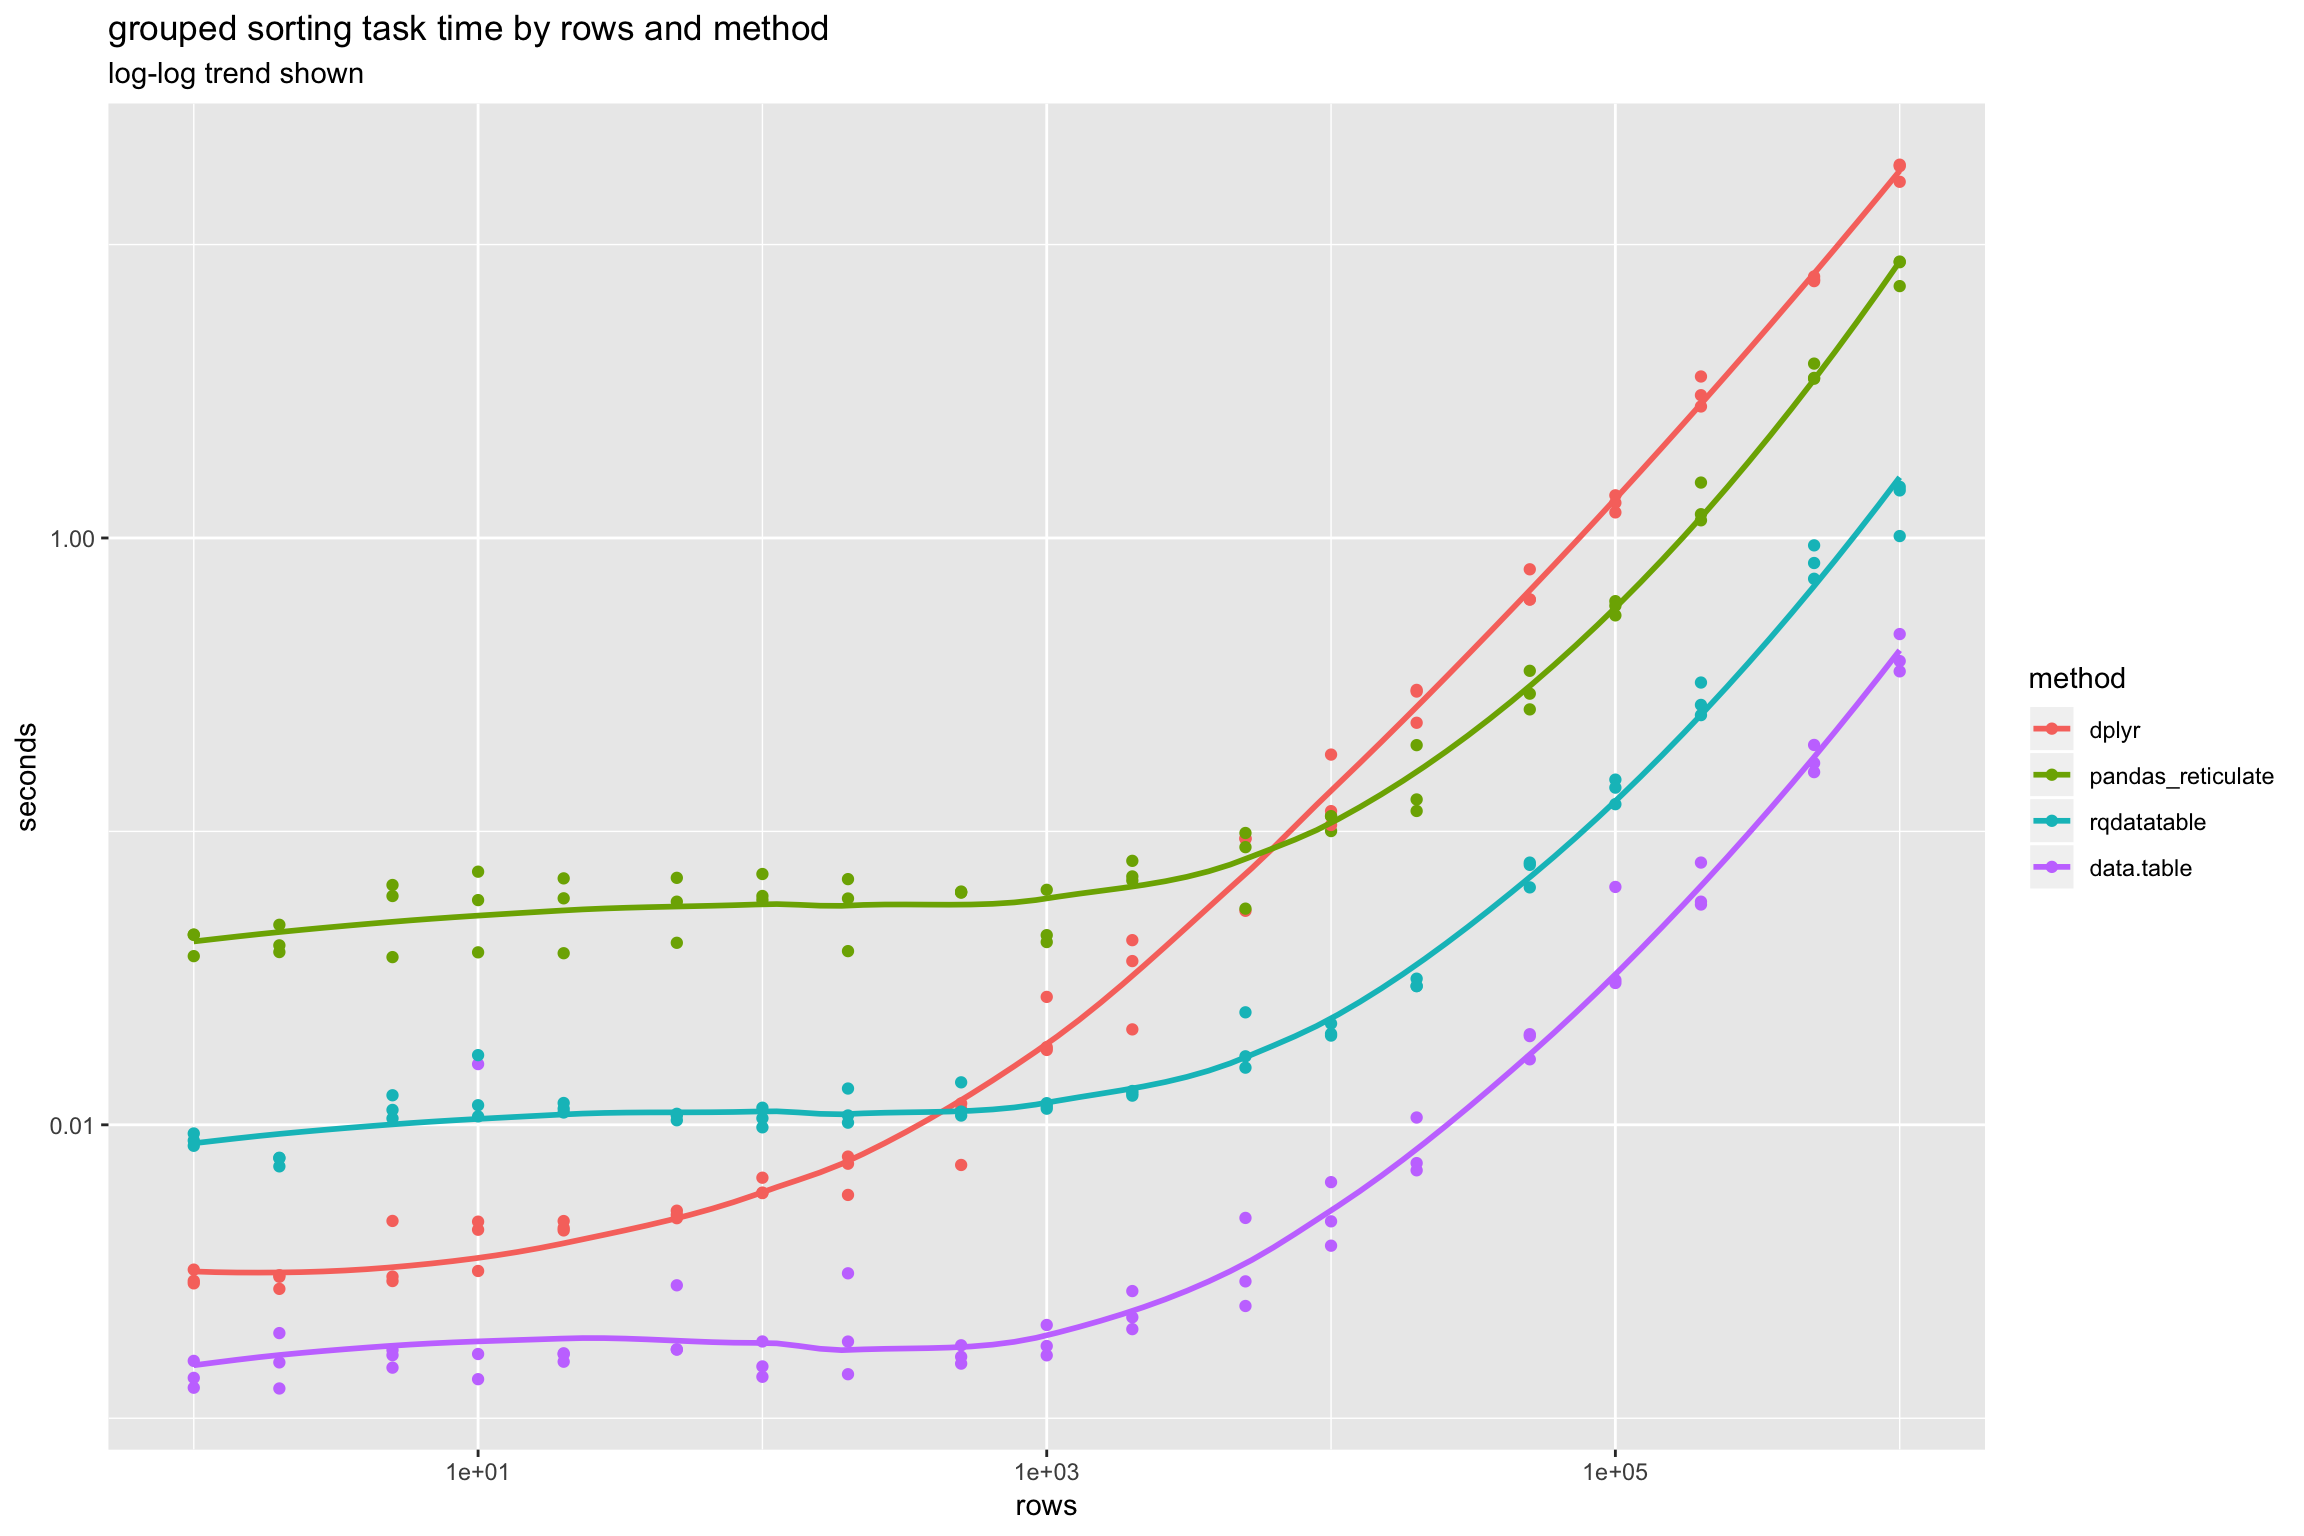
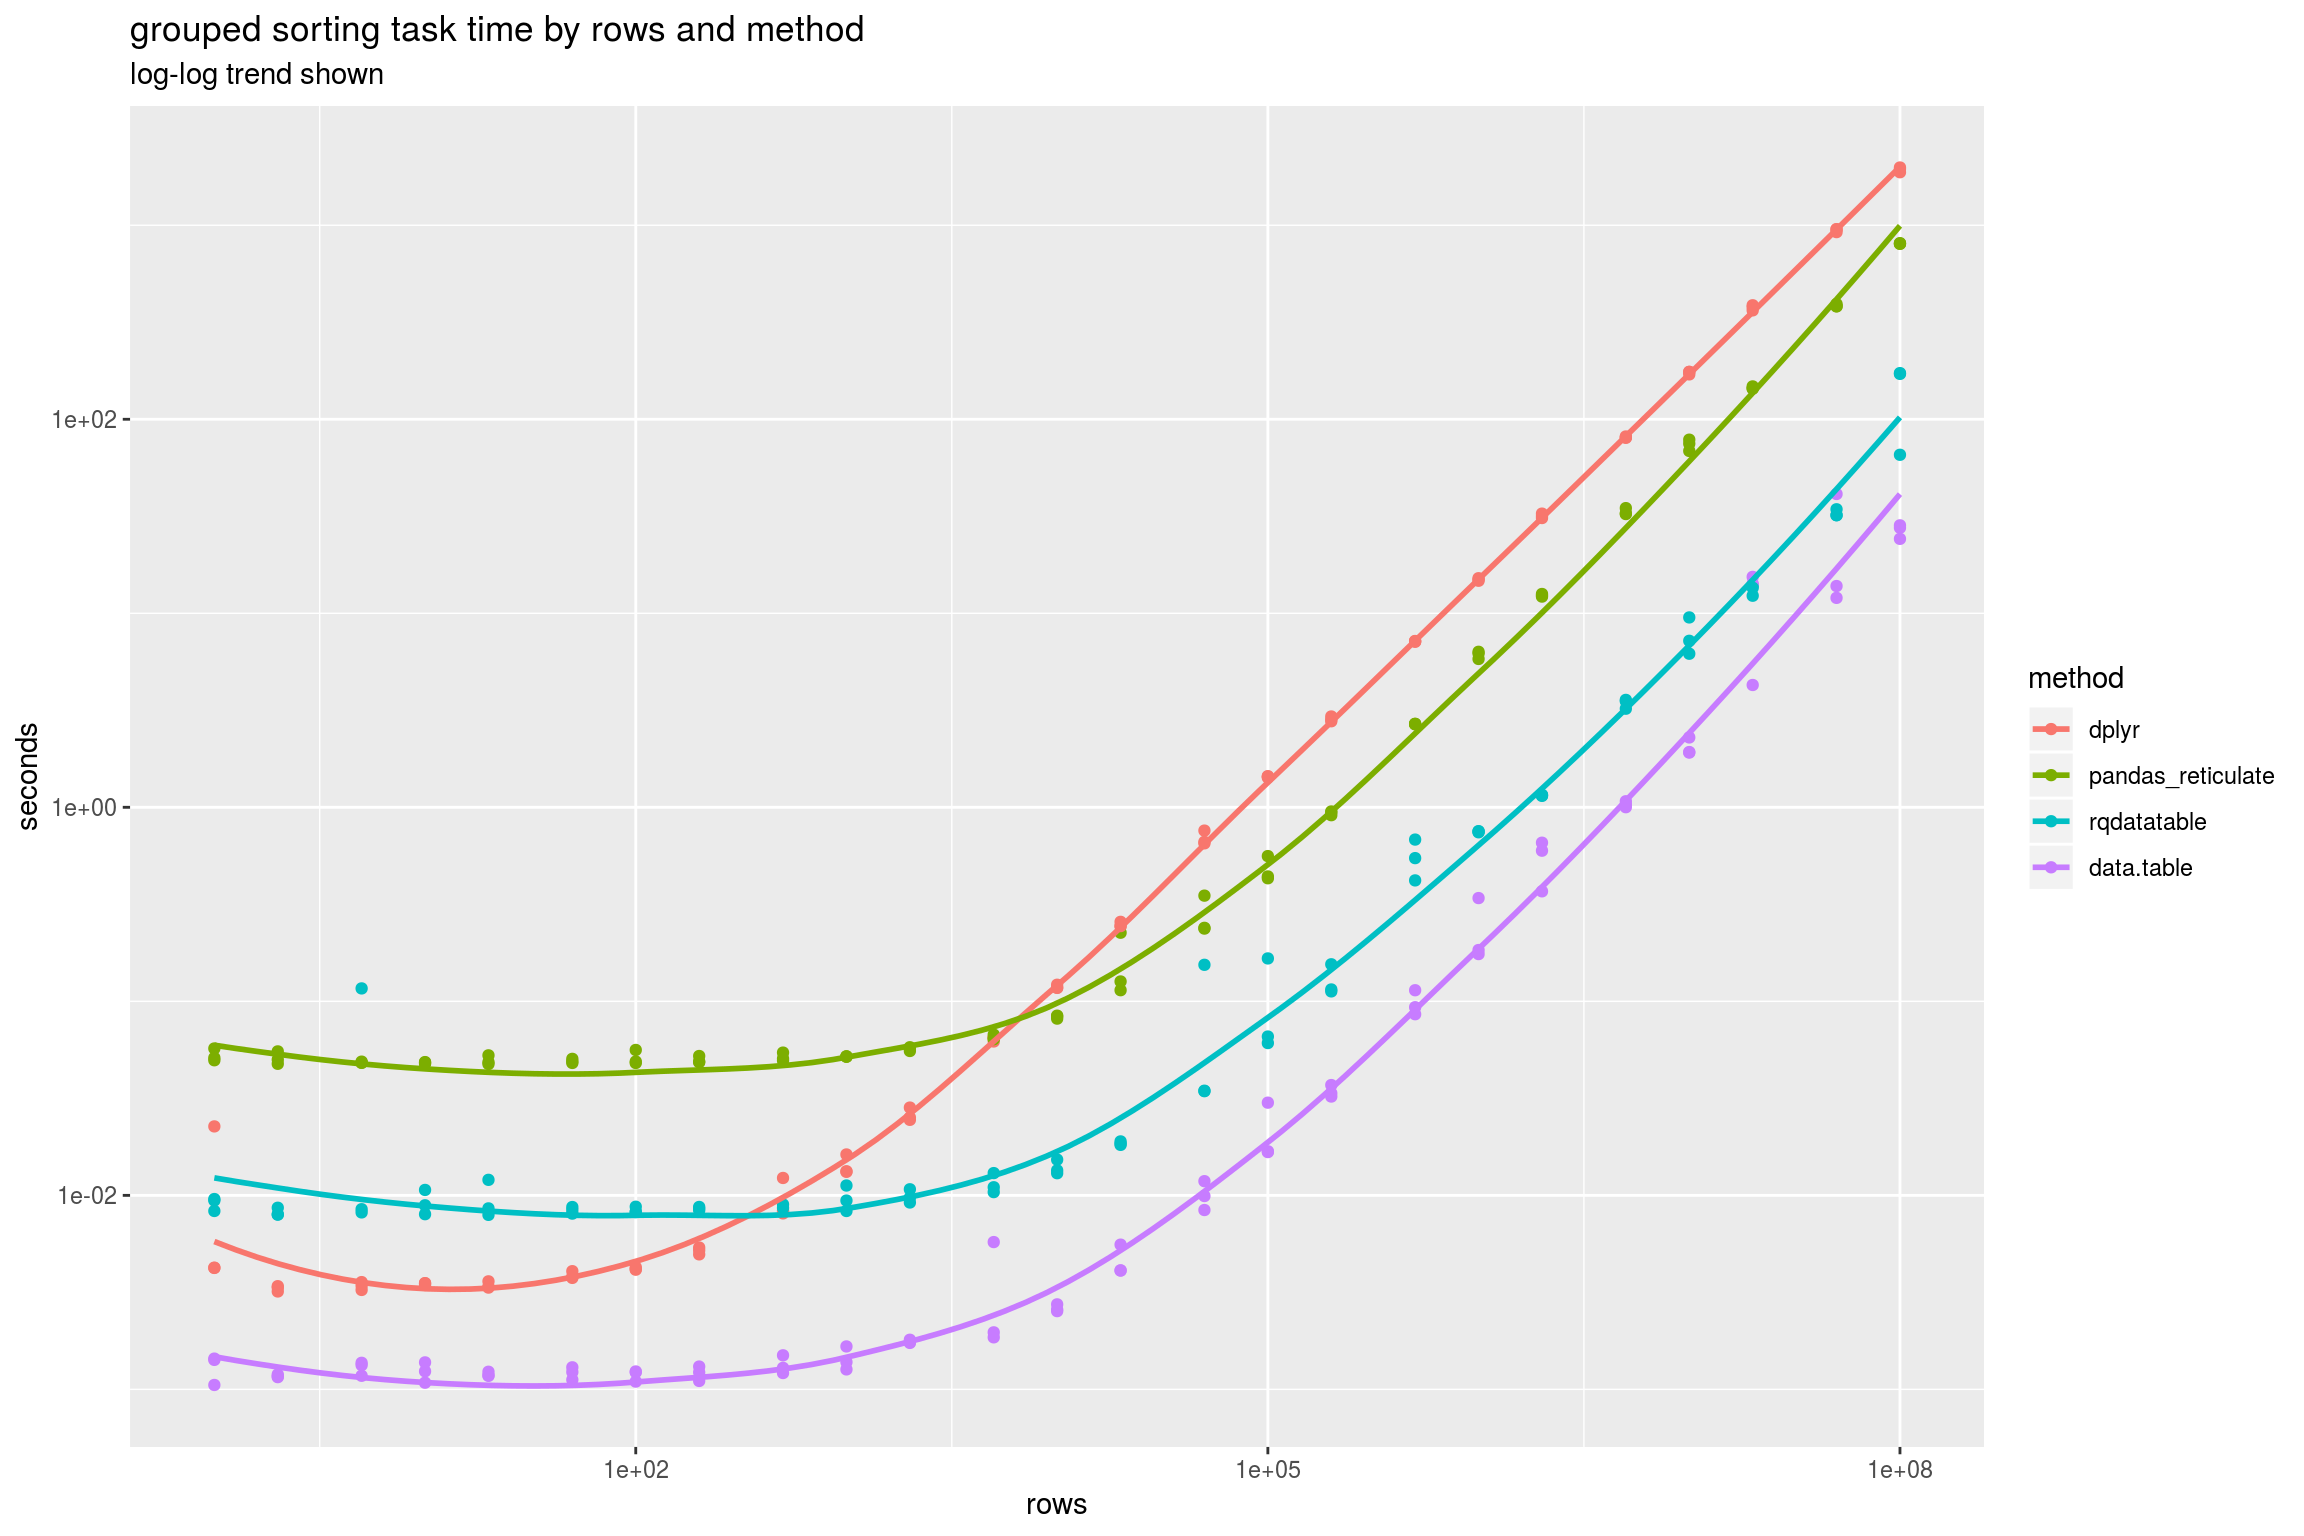
larger run

diff --git a/extras/GroupedRankFilter2.md b/extras/GroupedRankFilter2.md
@@ -1,12 +1,12 @@
 Grouped Rank Filter
 ================
 
-Late 2014 Mac Mini 2.8 GHz Intel Core i5, 8 GB 1600 MHz DDR3 RAM.
+Amazon EC2 `r4.8xlarge` (244 GiB RAM) run (8-12-2018, 64-bit Ubuntu Server 16.04 LTS (HVM), SSD Volume Type - ami-ba602bc2, R 3.4.4 all packages current).
 
 ``` r
 # https://cran.r-project.org/web/packages/reticulate/vignettes/r_markdown.html
 library("reticulate")
-use_python("/Users/johnmount/anaconda3/bin/python3")
+use_python("/home/ruser/miniconda3/bin/python3")
 pandas_handle <- reticulate::import("pandas") # don't use as https://github.com/rstudio/reticulate/issues/319
 
 pandas_fn <- py_run_string("
@@ -35,8 +35,6 @@ library("WVPlots")
 library("cdata")
 library("dplyr")
 ```
-
-    ## Warning: package 'dplyr' was built under R version 3.5.1
 
     ## 
     ## Attaching package: 'dplyr'
@@ -87,7 +85,7 @@ my_check <- function(values) {
 ```
 
 ``` r
-pow <- 6
+pow <- 8
 rds_name <- "GroupedRankFilter2_runs.RDS"
 if(!file.exists(rds_name)) {
   szs <- expand.grid(a = c(1,2,5), b = 10^{0:pow}) 
@@ -171,27 +169,33 @@ means <- timings %.>%
 knitr::kable(means)
 ```
 
-|   rows|  data.table|       dplyr|  pandas\_reticulate|  rqdatatable|       ratio|
-|------:|-----------:|-----------:|-------------------:|------------:|-----------:|
-|  1e+00|   0.0014039|   0.0030103|           0.0421621|    0.0088890|   2.1442705|
-|  2e+00|   0.0015879|   0.0029556|           0.0425789|    0.0075464|   1.8613086|
-|  5e+00|   0.0016117|   0.0035594|           0.0543929|    0.0114550|   2.2085096|
-|  1e+01|   0.0063730|   0.0040811|           0.0566445|    0.0132074|   0.6403778|
-|  2e+01|   0.0016251|   0.0045056|           0.0555863|    0.0114108|   2.7725583|
-|  5e+01|   0.0020897|   0.0049469|           0.0562630|    0.0106749|   2.3672949|
-|  1e+02|   0.0015709|   0.0061104|           0.0634033|    0.0105902|   3.8897282|
-|  2e+02|   0.0021189|   0.0069774|           0.0556364|    0.0114088|   3.2930115|
-|  5e+02|   0.0016425|   0.0101393|           0.0620991|    0.0119361|   6.1732423|
-|  1e+03|   0.0018265|   0.0212241|           0.0498281|    0.0115981|  11.6199428|
-|  2e+03|   0.0023114|   0.0332965|           0.0725457|    0.0128065|  14.4053951|
-|  5e+03|   0.0033855|   0.0808919|           0.0805580|    0.0189853|  23.8933666|
-|  1e+04|   0.0049798|   0.1350366|           0.1086150|    0.0209020|  27.1167050|
-|  2e+04|   0.0083315|   0.2792474|           0.1475553|    0.0302971|  33.5171747|
-|  5e+04|   0.0190474|   0.6720980|           0.3026181|    0.0732130|  35.2854946|
-|  1e+05|   0.0420870|   1.3126943|           0.5804750|    0.1383093|  31.1900036|
-|  2e+05|   0.0640798|   3.1411725|           1.2995626|    0.2801596|  49.0196923|
-|  5e+05|   0.1757401|   7.6311740|           3.6436349|    0.8304852|  43.4230771|
-|  1e+06|   0.4007553|  17.8595672|           8.2253009|    1.3205715|  44.5647679|
+|   rows|  data.table|         dplyr|  pandas\_reticulate|  rqdatatable|      ratio|
+|------:|-----------:|-------------:|-------------------:|------------:|----------:|
+|  1e+00|   0.0013044|     0.0103761|           0.0526532|    0.0090958|   7.954726|
+|  2e+00|   0.0011725|     0.0033142|           0.0509832|    0.0081892|   2.826511|
+|  5e+00|   0.0012929|     0.0034154|           0.0484493|    0.0444046|   2.641566|
+|  1e+01|   0.0012331|     0.0034988|           0.0482039|    0.0091830|   2.837444|
+|  2e+01|   0.0011964|     0.0034465|           0.0496014|    0.0095062|   2.880811|
+|  5e+01|   0.0012161|     0.0038770|           0.0492078|    0.0083844|   3.187999|
+|  1e+02|   0.0011861|     0.0041911|           0.0510651|    0.0083904|   3.533635|
+|  2e+02|   0.0012136|     0.0051852|           0.0499095|    0.0085473|   4.272605|
+|  5e+02|   0.0013343|     0.0095215|           0.0515220|    0.0086387|   7.135880|
+|  1e+03|   0.0014381|     0.0142589|           0.0519340|    0.0096481|   9.915308|
+|  2e+03|   0.0017626|     0.0260113|           0.0568113|    0.0098866|  14.757094|
+|  5e+03|   0.0031885|     0.0642016|           0.0652364|    0.0114742|  20.135500|
+|  1e+04|   0.0026181|     0.1189145|           0.0831414|    0.0139115|  45.420815|
+|  2e+04|   0.0045909|     0.2484106|           0.1554748|    0.0185435|  54.108923|
+|  5e+04|   0.0100507|     0.6912687|           0.2756078|    0.0744354|  68.777941|
+|  1e+05|   0.0212089|     1.4367429|           0.4771554|    0.0977245|  67.742527|
+|  2e+05|   0.0343076|     2.8469232|           0.9341816|    0.1276155|  82.982261|
+|  5e+05|   0.0977098|     7.1662103|           2.6869110|    0.5496446|  73.341743|
+|  1e+06|   0.2331859|    14.9369690|           6.1160769|    0.7489606|  64.056059|
+|  2e+06|   0.5411397|    31.7541695|          12.3761522|    1.1525302|  58.680171|
+|  5e+06|   1.0363018|    80.8073983|          33.3570382|    3.4413053|  77.976703|
+|  1e+07|   2.0440195|   173.7356822|          74.0035290|    7.6405196|  84.997078|
+|  2e+07|  11.2958123|   376.2707813|         145.2269821|   13.2490890|  33.310644|
+|  5e+07|  22.3381065|   942.6821488|         385.6512349|   32.8063748|  42.200629|
+|  1e+08|  26.7253973|  1936.2246529|         804.7686751|  136.6120934|  72.448863|
 
 ``` r
 ggplot(data = means, aes(x = rows, y = ratio)) +
